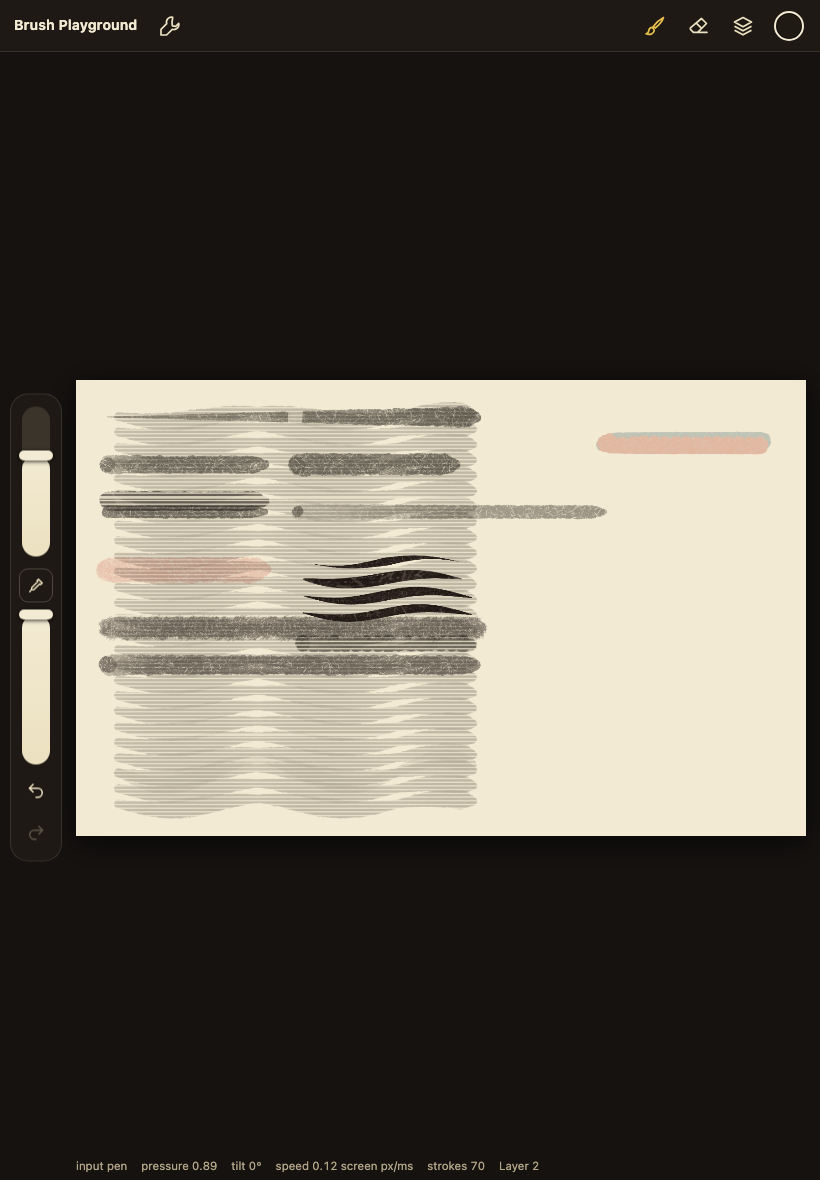
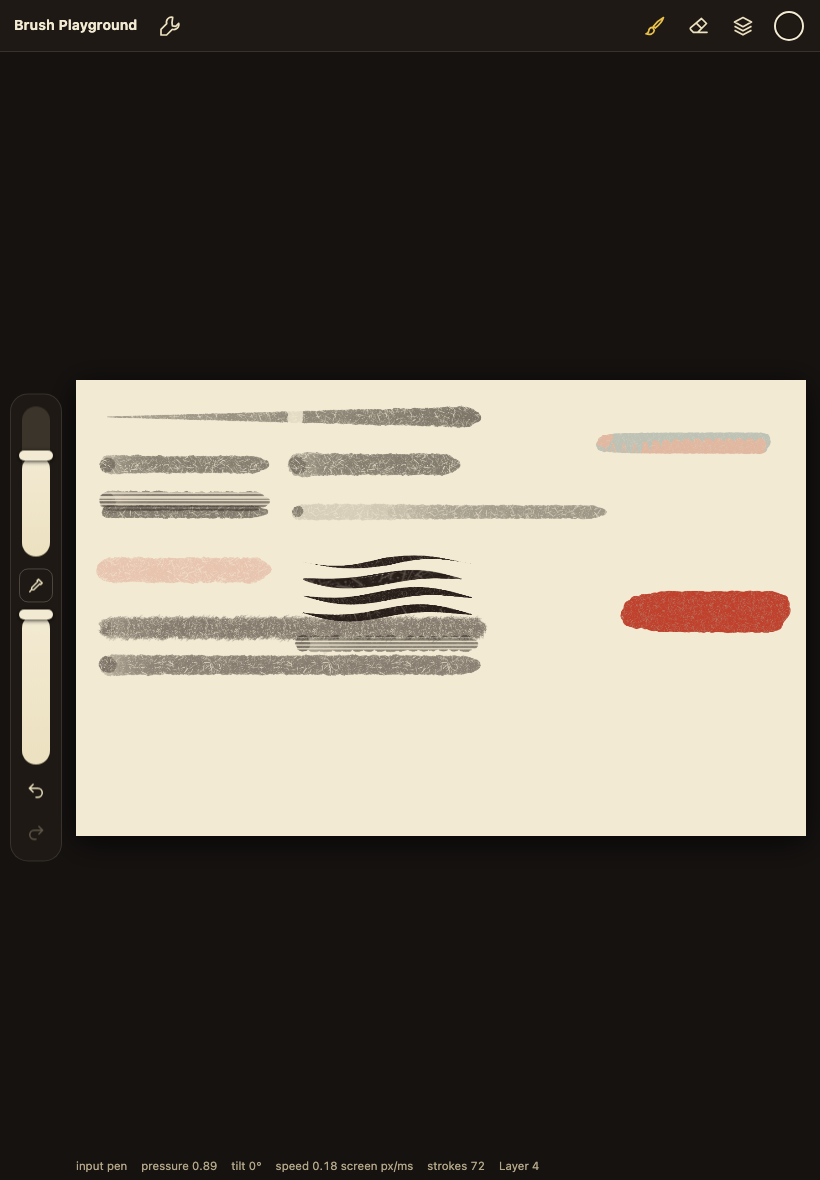
feat: clipping masks for brush playground layers (Procreate model)
- clip flag per layer (undoable, kept by duplicate/sessions/checkpoints), not on the bottom layer
- group compositing shared by view, live strokes, export and tests: base coverage, opacity, blend, visibility
- Normal exact via source-atop; other modes masked by the base and reset to the base alpha
- merge down of a clipped layer into its base with the same maths; indented rows with arrow to the base
- unit 41/0, Chromium 41/0 (4 new clipping tests)

Changed region(s): [[0.122, 0.3356, 0.5793, 0.7017], [0.7622, 0.4881, 0.9756, 0.5492], [0.7317, 0.3661, 0.8232, 0.3966]]

diff --git a/tools/brush-playground/engine.js b/tools/brush-playground/engine.js
@@ -298,9 +298,9 @@ const MAX_LAYERS = 16;
 const BLENDS = { normal: 'source-over', multiply: 'multiply', screen: 'screen', overlay: 'overlay', darken: 'darken', lighten: 'lighten',
   'color-burn': 'color-burn', 'color-dodge': 'color-dodge', 'hard-light': 'hard-light', 'soft-light': 'soft-light', difference: 'difference',
   exclusion: 'exclusion', hue: 'hue', saturation: 'saturation', color: 'color', luminosity: 'luminosity' };
-const LAYER_PROPS = ['name', 'visible', 'opacity', 'blend', 'alphaLock'];
+const LAYER_PROPS = ['name', 'visible', 'opacity', 'blend', 'alphaLock', 'clip'];
 const blank = () => mk(W, H);
-function newLayer(id, name, canvas) { return { id, name, visible: true, opacity: 1, blend: 'normal', alphaLock: false, canvas: canvas || blank(), frozen: false }; }
+function newLayer(id, name, canvas) { return { id, name, visible: true, opacity: 1, blend: 'normal', alphaLock: false, clip: false, canvas: canvas || blank(), frozen: false }; }
 const doc = { layers: [newLayer('L1', 'Layer 1')], bg: { visible: true, color: PAPER }, nextId: 2 };
 let activeId = 'L1';
 const layerById = id => doc.layers.find(L => L.id === id) || null;
@@ -324,12 +324,13 @@ function apply(a) {
     case 'layer-dup': {
       const i = layerIndex(a.src); if (i < 0) break; const S = doc.layers[i];
       const c = mk(W, H); c.getContext('2d').drawImage(S.canvas, 0, 0);
-      const L = newLayer(a.id, a.name, c); for (const k of ['visible', 'opacity', 'blend', 'alphaLock']) L[k] = S[k];
+      const L = newLayer(a.id, a.name, c); for (const k of ['visible', 'opacity', 'blend', 'alphaLock', 'clip']) L[k] = S[k];
       doc.layers.splice(i + 1, 0, L); doc.nextId = Math.max(doc.nextId, Number(String(a.id).slice(1)) + 1 || doc.nextId); break;
     }
     case 'layer-merge': {
       const i = layerIndex(a.id); if (i < 1) break; const U = doc.layers[i], Lo = writable(doc.layers[i - 1]), x = ctxOf(Lo);
-      x.save(); x.globalAlpha = U.opacity; x.globalCompositeOperation = BLENDS[U.blend] || 'source-over'; x.drawImage(U.canvas, 0, 0); x.restore();
+      if (U.clip && !Lo.clip) clipInto(x, Lo.canvas, [{ canvas: U.canvas, opacity: U.opacity, blend: U.blend }], FULL); // clipped layer into its base
+      else { x.save(); x.globalAlpha = U.opacity; x.globalCompositeOperation = BLENDS[U.blend] || 'source-over'; x.drawImage(U.canvas, 0, 0); x.restore(); }
       doc.layers.splice(i, 1); break;
     }
     case 'bg': for (const k of ['visible', 'color']) if (k in a.props) doc.bg[k] = a.props[k]; break;
@@ -343,7 +344,7 @@ let lastRebuildMs = 0;
 const SNAP_EVERY = 5, SNAP_MAX = 12, snaps = new Map(); // done.length -> frozen document (copy-on-write: cheap)
 function freeze() {
   for (const L of doc.layers) L.frozen = true;
-  return { layers: doc.layers.map(L => ({ id: L.id, name: L.name, visible: L.visible, opacity: L.opacity, blend: L.blend, alphaLock: L.alphaLock, canvas: L.canvas })), bg: Object.assign({}, doc.bg), nextId: doc.nextId };
+  return { layers: doc.layers.map(L => ({ id: L.id, name: L.name, visible: L.visible, opacity: L.opacity, blend: L.blend, alphaLock: L.alphaLock, clip: !!L.clip, canvas: L.canvas })), bg: Object.assign({}, doc.bg), nextId: doc.nextId };
 }
 function restore(sn) { doc.layers = sn.layers.map(m => Object.assign({}, m, { frozen: true })); doc.bg = Object.assign({}, sn.bg); doc.nextId = sn.nextId; }
 snaps.set(0, freeze());
@@ -361,34 +362,71 @@ function rebuild() {
   for (let i = from; i < done.length; i++) apply(done[i]);
   lastRebuildMs = performance.now() - t0;
 }
-/* composite of background + visible layers into the view (optionally with the live stroke on its layer) */
-function compose(r, withLive) {
-  r = r || { x: 0, y: 0, w: W, h: H };
-  view.save(); view.globalAlpha = 1; view.globalCompositeOperation = 'source-over';
-  view.clearRect(r.x, r.y, r.w, r.h);
-  if (doc.bg.visible) { view.fillStyle = doc.bg.color; view.fillRect(r.x, r.y, r.w, r.h); }
-  for (const L of doc.layers) {
-    if (!L.visible) continue;
-    let src = L.canvas;
-    if (withLive && L.id === withLive.rec.layerId) {
-      lctx.save(); lctx.globalAlpha = 1; lctx.globalCompositeOperation = 'source-over';
-      lctx.clearRect(r.x, r.y, r.w, r.h); lctx.drawImage(L.canvas, r.x, r.y, r.w, r.h, r.x, r.y, r.w, r.h); lctx.restore();
-      compositeStroke(lctx, active, grained, r, brushes.get(withLive.rec.brushId) || brushes.get(ROUND_ID), withLive.rec);
-      src = live2;
-    }
-    view.globalAlpha = L.opacity; view.globalCompositeOperation = BLENDS[L.blend] || 'source-over';
-    view.drawImage(src, r.x, r.y, r.w, r.h, r.x, r.y, r.w, r.h);
+/* ---------------- compositing ----------------
+   Clipping masks (Procreate model): a layer with clip=true is masked by the nearest non-clipped layer
+   below it (its base). Base + clipped layers form a group; the group carries the base's coverage,
+   opacity and blend mode, and disappears when the base is hidden.
+   Normal clipped layers use 'source-atop' (exact). Other blend modes: the clipped layer is masked by the
+   base, blended, and the group's alpha is then reset to the base alpha (one pixel pass over the region),
+   so grainy bases do not fill up. */
+const FULL = { x: 0, y: 0, w: W, h: H };
+const groupBuf = mk(W, H), gbx = groupBuf.getContext('2d', { willReadFrequently: true });
+const maskBuf = mk(W, H), mbx = maskBuf.getContext('2d');
+const tmpBuf = mk(W, H), tbx = tmpBuf.getContext('2d', { willReadFrequently: true });
+function reset(x) { x.globalAlpha = 1; x.globalCompositeOperation = 'source-over'; }
+/* paint clipped layers (canvas, opacity, blend) into ctx x whose current content is the base (baseCanvas) */
+function clipInto(x, baseCanvas, clipped, r) {
+  let fix = false;
+  for (const c of clipped) {
+    if (c.blend === 'normal') { x.globalAlpha = c.opacity; x.globalCompositeOperation = 'source-atop'; x.drawImage(c.canvas, r.x, r.y, r.w, r.h, r.x, r.y, r.w, r.h); reset(x); continue; }
+    reset(mbx); mbx.clearRect(r.x, r.y, r.w, r.h); mbx.drawImage(c.canvas, r.x, r.y, r.w, r.h, r.x, r.y, r.w, r.h);
+    mbx.globalCompositeOperation = 'destination-in'; mbx.drawImage(baseCanvas, r.x, r.y, r.w, r.h, r.x, r.y, r.w, r.h); reset(mbx);
+    x.globalAlpha = c.opacity; x.globalCompositeOperation = BLENDS[c.blend] || 'source-over'; x.drawImage(maskBuf, r.x, r.y, r.w, r.h, r.x, r.y, r.w, r.h); reset(x);
+    fix = true;
   }
-  view.restore();
+  if (fix) { // alpha := base alpha
+    tbx.clearRect(r.x, r.y, r.w, r.h); tbx.drawImage(baseCanvas, r.x, r.y, r.w, r.h, r.x, r.y, r.w, r.h);
+    const g = x.getImageData(r.x, r.y, r.w, r.h), b = tbx.getImageData(r.x, r.y, r.w, r.h).data, d = g.data;
+    for (let i = 3; i < d.length; i += 4) d[i] = b[i];
+    x.putImageData(g, r.x, r.y);
+  }
 }
+/* bottom → top composite of the visible stack into ctx out over region r; liveRec puts the live stroke on its layer */
+function compositeInto(out, r, bgColor, withLive) {
+  out.save(); reset(out);
+  out.clearRect(r.x, r.y, r.w, r.h);
+  if (bgColor) { out.fillStyle = bgColor; out.fillRect(r.x, r.y, r.w, r.h); }
+  let liveSrc = null;
+  const src = L => {
+    if (!(withLive && L.id === withLive.rec.layerId)) return L.canvas;
+    if (!liveSrc) {
+      lctx.save(); reset(lctx); lctx.clearRect(r.x, r.y, r.w, r.h); lctx.drawImage(L.canvas, r.x, r.y, r.w, r.h, r.x, r.y, r.w, r.h); lctx.restore();
+      compositeStroke(lctx, active, grained, r, brushes.get(withLive.rec.brushId) || brushes.get(ROUND_ID), withLive.rec);
+      liveSrc = live2;
+    }
+    return liveSrc;
+  };
+  const Ls = doc.layers;
+  for (let i = 0; i < Ls.length;) {
+    const B = Ls[i]; let j = i + 1; while (j < Ls.length && Ls[j].clip) j++;
+    const clipped = Ls.slice(i + 1, j).filter(c => c.visible);
+    i = j;
+    if (!B.visible) continue; // a hidden base hides its clipping group
+    let s = src(B);
+    if (clipped.length) {
+      reset(gbx); gbx.clearRect(r.x, r.y, r.w, r.h); gbx.drawImage(s, r.x, r.y, r.w, r.h, r.x, r.y, r.w, r.h);
+      clipInto(gbx, s, clipped.map(c => ({ canvas: src(c), opacity: c.opacity, blend: c.blend })), r);
+      s = groupBuf;
+    }
+    out.globalAlpha = B.opacity; out.globalCompositeOperation = BLENDS[B.blend] || 'source-over';
+    out.drawImage(s, r.x, r.y, r.w, r.h, r.x, r.y, r.w, r.h);
+  }
+  out.restore();
+}
+function compose(r, withLive) { compositeInto(view, r || FULL, doc.bg.visible ? doc.bg.color : null, withLive); }
 function refreshView(r) { compose(r, null); }
 /* layers flattened without (or with a forced) background: exports and tests */
-function flatten(bgColor) {
-  const out = mk(W, H), x = out.getContext('2d');
-  if (bgColor) { x.fillStyle = bgColor; x.fillRect(0, 0, W, H); }
-  for (const L of doc.layers) { if (!L.visible) continue; x.globalAlpha = L.opacity; x.globalCompositeOperation = BLENDS[L.blend] || 'source-over'; x.drawImage(L.canvas, 0, 0); }
-  return out;
-}
+function flatten(bgColor) { const out = mk(W, H); compositeInto(out.getContext('2d'), FULL, bgColor || null, null); return out; }
 function fixActive() { if (!layerById(activeId)) activeId = doc.layers[doc.layers.length - 1].id; }
 function syncButtons() { emit('history', { canUndo: done.length > 0, canRedo: undone.length > 0, strokes: done.filter(a => a.type === 'stroke').length }); }
 function afterChange(r) { fixActive(); compose(null, null); syncButtons(); emit('layers', layersInfo()); }
@@ -399,7 +437,7 @@ function redo() { if (!undone.length || live) return; const a = undone.pop(); ap
 /* layer commands (all undoable, like Procreate) */
 function layersInfo() {
   return { active: activeId, max: MAX_LAYERS, bg: Object.assign({}, doc.bg),
-    layers: doc.layers.map(L => ({ id: L.id, name: L.name, visible: L.visible, opacity: L.opacity, blend: L.blend, alphaLock: L.alphaLock, canvas: L.canvas })) };
+    layers: doc.layers.map((L, i) => ({ id: L.id, name: L.name, visible: L.visible, opacity: L.opacity, blend: L.blend, alphaLock: L.alphaLock, clip: !!L.clip && i > 0, canvas: L.canvas })) };
 }
 function selectLayer(id) { if (layerById(id)) { activeId = id; emit('layers', layersInfo()); } }
 function addLayer() {
@@ -425,7 +463,8 @@ function setLayer(id, props) {
   for (const k of LAYER_PROPS) if (k in props) {
     let v = props[k];
     if (k === 'opacity') v = Math.max(0, Math.min(1, Number(v)));
-    if (k === 'visible' || k === 'alphaLock') v = !!v;
+    if (k === 'visible' || k === 'alphaLock' || k === 'clip') v = !!v;
+    if (k === 'clip' && v && layerIndex(id) === 0) throw Error('The bottom layer has nothing below to clip to');
     if (k === 'blend' && !BLENDS[v]) continue;
     if (k === 'name') v = String(v).slice(0, 60) || L.name;
     p[k] = v;

diff --git a/tools/brush-playground/ui.js b/tools/brush-playground/ui.js
@@ -496,10 +496,10 @@
     const top = info.layers.slice().reverse();
     top.forEach((L, k) => {
       const i = info.layers.length - 1 - k; // index from the bottom
-      const li = document.createElement('li'); li.className = 'layer' + (L.visible ? '' : ' hidden-layer'); li.dataset.id = L.id;
+      const li = document.createElement('li'); li.className = 'layer' + (L.visible ? '' : ' hidden-layer') + (L.clip ? ' clipped' : ''); li.dataset.id = L.id;
       li.setAttribute('role', 'option'); li.setAttribute('aria-selected', L.id === info.active);
       const [abbr, long] = BLEND_LABEL[L.blend] || ['N', 'Normal'];
-      li.innerHTML = '<canvas class="thumb" width="128" height="80"></canvas><span class="lname">' + esc(L.name) + '<small>' + long + (L.opacity < 1 ? ' · ' + Math.round(L.opacity * 100) + ' %' : '') + (L.alphaLock ? ' · alpha lock' : '') + '</small></span>' +
+      li.innerHTML = '<canvas class="thumb" width="128" height="80"></canvas><span class="lname">' + esc(L.name) + '<small>' + long + (L.opacity < 1 ? ' · ' + Math.round(L.opacity * 100) + ' %' : '') + (L.alphaLock ? ' · alpha lock' : '') + (L.clip ? ' · clipped' : '') + '</small></span>' +
         '<button class="blendbtn" data-act="opts" aria-expanded="' + (layerOpts === L.id) + '" title="Opacity, blend mode and layer actions">' + abbr + '</button>' +
         '<input class="vis" type="checkbox" data-act="vis" title="Visible"' + (L.visible ? ' checked' : '') + ' aria-label="Visible">';
       const t = li.querySelector('canvas').getContext('2d'); t.drawImage(L.canvas, 0, 0, 128, 80);
@@ -510,6 +510,7 @@
           '<div class="set"><label for="layerOpacity">Opacity</label><output id="layerOpacityOut">' + Math.round(L.opacity * 100) + ' %</output><input id="layerOpacity" type="range" min="0" max="1" step="0.01" value="' + L.opacity + '"></div>' +
           '<div class="set"><label for="layerBlend">Blend mode</label><span></span><select id="layerBlend" style="grid-column:1/-1">' + E.BLENDS.map(b => '<option value="' + b + '"' + (b === L.blend ? ' selected' : '') + '>' + BLEND_LABEL[b][1] + '</option>').join('') + '</select></div>' +
           '<div class="set toggle"><label for="layerAlpha">Alpha lock<span class="meta" style="display:block">paint only where the layer has paint</span></label><input id="layerAlpha" class="switch" type="checkbox"' + (L.alphaLock ? ' checked' : '') + '></div>' +
+          '<div class="set toggle"><label for="layerClip">Clipping mask<span class="meta" style="display:block">' + (i === 0 ? 'needs a layer below' : 'show only where the layer below has paint') + '</span></label><input id="layerClip" class="switch" type="checkbox"' + (L.clip ? ' checked' : '') + (i === 0 ? ' disabled' : '') + '></div>' +
           '<div class="acts"><button id="layerUp"' + (i === info.layers.length - 1 ? ' disabled' : '') + '>Up</button><button id="layerDown"' + (i === 0 ? ' disabled' : '') + '>Down</button>' +
           '<button id="layerDup"' + (info.layers.length >= info.max ? ' disabled' : '') + '>Duplicate</button><button id="layerMerge"' + (i === 0 ? ' disabled' : '') + '>Merge down</button>' +
           '<button id="layerClear">Clear</button><button id="layerDel"' + (info.layers.length === 1 ? ' disabled' : '') + '>Delete</button></div>';
@@ -550,6 +551,7 @@
     if (e.target.id === 'layerOpacity') E.setLayer(id, { opacity: Number(e.target.value) });
     if (e.target.id === 'layerBlend') E.setLayer(id, { blend: e.target.value });
     if (e.target.id === 'layerAlpha') E.setLayer(id, { alphaLock: e.target.checked });
+    if (e.target.id === 'layerClip') guard(() => E.setLayer(id, { clip: e.target.checked }));
     if (e.target.id === 'layerName') E.setLayer(id, { name: e.target.value.trim() });
   });
   $('layerList').addEventListener('input', e => {

diff --git a/tools/brush-playground/index.html b/tools/brush-playground/index.html
@@ -92,6 +92,9 @@ label.rowbtn input[type=file]{display:none}
 .layers>li.layer{display:grid;grid-template-columns:64px 1fr auto auto;align-items:center;gap:10px;padding:6px 8px;border-radius:10px;cursor:pointer;margin:3px 0;border:1px solid transparent}
 .layers>li.layer[aria-selected=true]{background:#e9c14a26;border-color:var(--rabbit)}
 .layers>li.layer.hidden-layer .lname,.layers>li.layer.hidden-layer canvas{opacity:.4}
+.layers>li.layer.clipped{margin-left:22px;position:relative}
+.layers>li.layer.clipped::before{content:"";position:absolute;left:-13px;top:10px;bottom:4px;border-left:2px solid var(--rabbit)}
+.layers>li.layer.clipped::after{content:"";position:absolute;left:-17px;bottom:-4px;border:5px solid transparent;border-top:7px solid var(--rabbit)}
 .layers canvas.thumb{width:64px;height:40px;border-radius:5px;display:block;background:conic-gradient(#d8d2c2 25%,#f3ead3 0 50%,#d8d2c2 0 75%,#f3ead3 0) 0 0/10px 10px}
 .layers .lname{font-size:13px;overflow-wrap:anywhere}
 .layers .lname small{display:block;color:var(--pencil);font-size:11px}

diff --git a/tools/KFB-ToolBox/_inbox/KFB_HUB/30_DECISIONS/replies/KFB_BRUSH_PLAYGROUND_R1/TEST_REPORT_R1.md b/tools/KFB-ToolBox/_inbox/KFB_HUB/30_DECISIONS/replies/KFB_BRUSH_PLAYGROUND_R1/TEST_REPORT_R1.md
@@ -188,3 +188,27 @@ Public: `tools/brush-playground/evidence/editor_ui_layers.png` (+ the earlier UI
 
 ### Open
 iPad/Pencil and Safari; layer groups, clipping masks, reference layer, drag-to-reorder, selection/transform; per-frame cost grows with the number of visible layers (measured only with 2).
+
+## R1.9 · 2026-10-22 · Clipping masks
+Georg: “ja, mach mit Clipping Masks weiter”.
+
+### What was built
+- Layer property `clip` (undoable `layer-set`, kept by duplicate, sessions and checkpoints). Not allowed on the bottom layer; a clipped layer moved to the bottom acts as a base.
+- Compositing (`compositeInto`, shared by view, live strokes, exports and tests): base + following clipped layers form a group; the group is drawn with the base's opacity and blend mode; a hidden base hides the group; hidden clipped layers are skipped. Normal clipped layers use `source-atop` (exact). Other blend modes: clipped layer masked by the base (`destination-in`), blended, then the group's alpha is reset to the base alpha in one pixel pass over the region.
+- Merge down of a clipped layer into its base uses the same maths. Merge of a clipped layer into a clipped sibling stays a plain composite (approximation).
+- Layers panel: “Clipping mask” switch in the options, clipped rows indented with an arrow down to the base, “clipped” in the row subtitle.
+
+### Checks actually run (2026-10-22, Chromium 156.0.8078.4 headless)
+- `node tests/unit.mjs`: **41 passed, 0 failed** (core unchanged).
+- `node tests/browser.mjs`: **41 passed, 0 failed**. New:
+
+| # | Check | Result |
+|---|---|---|
+| B38 | 240 px red stroke clipped to a 120 px teal base: 0 px visible outside the base (2,880 px when clip is off), content kept on the clipped layer, 960 red px inside; toggle off, undo/redo exact; row shown indented | PASS |
+| B39 | clipped Multiply over a grainy CRAYONIC base: flat alpha sum 7,494,377 with and without the clipped layer (coverage unchanged), pixel 78,138,132 → 59,35,22 | PASS |
+| B40 | base hidden → 0 px in the whole group area, shown again → back | PASS |
+| B41 | merge the (Normal) clipped layer down into its base: pixel hash unchanged, layer count −1, undo/redo exact | PASS |
+| B14 | performance (3–4 layers, 72 strokes) | frame mean 1.97 ms / max 3.6 ms, commit ≤ 20.5 ms, undo rebuild 89 ms |
+
+### Open
+Merge into a clipped sibling is approximate for non-Normal modes; colour of non-Normal clipped layers at soft base edges is computed at grown coverage before the alpha reset (slight colour shift possible at edges, not measured against Procreate). iPad/Pencil, Safari, reference layer, layer groups, selection/transform still open.

diff --git a/tools/brush-playground/README.md b/tools/brush-playground/README.md
@@ -22,7 +22,9 @@ Procreate's layout is the blueprint, KFB's palette the skin (ink-black chrome, p
 
 - **Layers (R1.8):** top-bar button (L). Procreate's panel as blueprint: top layer first, thumbnail, name, blend letter and visibility per row; tapping the letter opens name, opacity (live preview, one undo step), blend mode (16 modes, computed against what lies below including the paper), alpha lock, up/down, duplicate, merge down, clear, delete. Background colour row at the bottom (hide for transparency, swatch takes the current colour). Up to 16 layers. Every layer action is undoable; checkpoints share unchanged layers (copy-on-write). Eyedropper samples the composite as seen. PNG transparent = visible layers; PNG on paper adds the background colour. Drawings are saved as `session/2`; `session/1` files from R1.6/R1.7 load into Layer 1.
 
-Not in the playground yet: selection, transform, adjustments, smudge, layer groups, clipping masks.
+- **Clipping masks (R1.9):** in the layer options (not for the bottom layer). A clipped layer shows only where the nearest non-clipped layer below (its base) has paint; its own content outside stays intact. The group takes the base's coverage, opacity and blend mode and hides with the base. Normal is exact (`source-atop`); other blend modes are masked by the base and the group alpha is reset to the base alpha, so grainy bases do not fill up. Merge down of a clipped layer applies it into the base with the same maths. Clipped rows are indented with an arrow to the base.
+
+Not in the playground yet: selection, transform, adjustments, smudge, layer groups, reference layer.
 
 ## What it does
 

diff --git a/tools/KFB-ToolBox/_inbox/KFB_HUB/30_DECISIONS/replies/KFB_BRUSH_PLAYGROUND_R1/RETURN.md b/tools/KFB-ToolBox/_inbox/KFB_HUB/30_DECISIONS/replies/KFB_BRUSH_PLAYGROUND_R1/RETURN.md
@@ -77,3 +77,9 @@ Added prototype/index.html (local brush shape import, pointer drawing, undo/redo
 - Result: unit 41/0, Chromium 37/0 (6 new layer tests). No PR, merge, deployment, Site, Notion or georgbrush.club change.
 - **One next gate:** Georg draws a small comic panel with ink on one layer and colour (Multiply) on another and says what is missing compared to his Procreate routine (candidates: clipping mask, reference layer, drag reorder, selection/transform).
 - Checkpoint: R1.8 implementation commit `1f641f8bda7c685113572d0d9165721fe69c76c3`, pushed and verified with `git ls-remote`; this line is a follow-up docs commit.
+
+## R1.9 · 2026-10-22 · Clipping masks
+- Georg: “ja, mach mit Clipping Masks weiter”.
+- Delivered: clipping masks after Procreate (switch in layer options, indented rows with arrow to the base, group takes base coverage/opacity/blend/visibility, exact Normal, alpha-preserving other modes, merge into base). Unit 41/0, Chromium 41/0 (4 new clipping tests).
+- No PR, merge, deployment, Site, Notion or georgbrush.club change.
+- **One next gate:** Georg colours an ink drawing with a flat base layer and clipped Multiply shading and names the next missing piece (candidates: reference layer + fill, selection/transform, layer groups).

diff --git a/tools/KFB-ToolBox/_inbox/KFB_HUB/30_DECISIONS/replies/KFB_BRUSH_PLAYGROUND_R1/CHANGELOG.md b/tools/KFB-ToolBox/_inbox/KFB_HUB/30_DECISIONS/replies/KFB_BRUSH_PLAYGROUND_R1/CHANGELOG.md
@@ -1,5 +1,10 @@
 # KFB Brush Playground R1 · changelog (additive, newest first)
 
+## 2026-10-22 · R1.9 · Clipping masks (Claude Code)
+- Clipping masks after Procreate: switch in layer options, clipped rows indented with an arrow to the base.
+- Group compositing shared by view, live strokes, export and tests: base coverage, opacity, blend and visibility carry the group; Normal exact via source-atop, other modes reset to the base alpha; merge down into the base with the same maths.
+- Unit 41/0, Chromium 41/0 (4 new clipping tests).
+
 ## 2026-10-22 · R1.8 · Layers (Claude Code)
 - Up to 16 layers plus background colour; Procreate-style Layers panel with opacity, 16 blend modes, alpha lock, up/down, duplicate, merge down, clear, delete.
 - Action-based document with copy-on-write checkpoints: every layer action undoable, replays exact; blend modes against the paper; eyedropper samples the composite.
